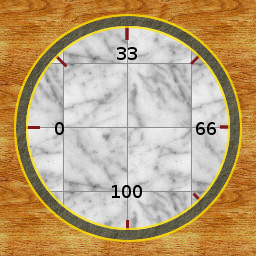
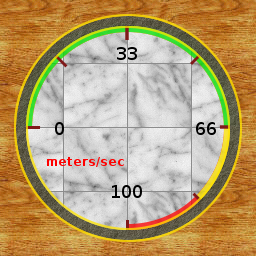
Finished the car's cockpit.

Changed region(s): [[0.0938, 0.0938, 0.9062, 0.9062], [0.1875, 0.5938, 0.5, 0.6562]]

diff --git a/trunk/source/IrrOdeCar/CCar.cpp b/trunk/source/IrrOdeCar/CCar.cpp
@@ -1,9 +1,12 @@
+  #include <irrlicht.h>
   #include "CCar.h"
   #include <CCustomEventReceiver.h>
   #include <CCockpitCar.h>
   #include <math.h>
 
   #include <irrCC.h>
+
+using namespace irr;
 
 void findNodesOfType(ISceneNode *pParent, irr::scene::ESCENE_NODE_TYPE iType, array<ISceneNode *> &aNodes) {
   list<irr::scene::ISceneNode *> children=pParent->getChildren();
@@ -48,6 +51,9 @@ CCar::CCar(IrrlichtDevice *pDevice, ISceneNode *pNode, CIrrCC *pCtrl, CCockpitCa
     m_bBoost=false;
     m_bAdaptSteer=true;
     m_iThrottle=0;
+
+    m_fCamAngleH=0.0f;
+    m_fCamAngleV=0.0f;
 
     //add a camera
     m_pCam=m_pSmgr->addCameraSceneNode();
@@ -133,11 +139,28 @@ u32 CCar::update() {
         //and 45 we calculate the actual steering angle
         m_fActSteer=45.0f-(20.0f)*(v-10.0f)/35.0f;
 
-  bool b=m_pController->get(m_pCtrls[eCarBackview])!=0.0f;
   //get the parameters for the camera ...
   vector3df pos=m_pCarBody->getRotation().rotationToDirection(m_bInternal?vector3df(0,1.35,0):vector3df(8,4,0)),
             up =m_pCarBody->getRotation().rotationToDirection(vector3df(0,0.2,0)),
-            tgt=m_pCarBody->getRotation().rotationToDirection(m_bInternal?vector3df(-5,1.35,0):vector3df(0,2,0));
+            tgt=m_pCarBody->getRotation().rotationToDirection(m_bInternal?vector3df(-5,1.35,0):vector3df(0,2,0)),
+            rot=m_pCarBody->getRotation();
+
+  if (m_bInternal) {
+    core::vector2df lookAt=core::vector2df(0.0f,-5.0f).rotateBy(m_fCamAngleH),
+                    lookUp=core::vector2df(5.0f, 0.0f).rotateBy(m_fCamAngleV);
+
+    pos=rot.rotationToDirection(vector3df(0,1.35,0)),
+    up =rot.rotationToDirection(vector3df(0,1,0));
+    tgt=rot.rotationToDirection(vector3df(lookAt.Y,1.1+lookUp.Y,lookAt.X));
+  }
+  else {
+    core::vector2df lookAt=core::vector2df(  0.0f,15.0f).rotateBy(m_fCamAngleH),
+                    lookUp=core::vector2df(-15.0f, 0.0f).rotateBy(m_fCamAngleV);
+
+    pos=rot.rotationToDirection(vector3df(lookAt.Y,5.0f+lookUp.Y,lookAt.X)),
+    up =rot.rotationToDirection(vector3df(0,1,0));
+    tgt=rot.rotationToDirection(vector3df(0,4,0));
+  }
 
   //... and apply them to the active camera
   m_pCam->setPosition(m_pCarBody->getPosition()+pos);
@@ -166,6 +189,9 @@ bool CCar::OnEvent(const SEvent &event) {
 bool CCar::onEvent(IIrrOdeEvent *pEvent) {
   if (m_bActive && pEvent->getType()==irr::ode::eIrrOdeEventStep) {
     bool bBoost=m_pController->get(m_pCtrls[eCarBoost])!=0.0f;
+
+    if (bBoost!=m_bBoost) m_pCockpit->setBoost(bBoost);
+    m_bBoost=bBoost;
 
     f32 fForeward=m_pController->get(m_pCtrls[eCarForeward]);
 
@@ -216,6 +242,44 @@ bool CCar::onEvent(IIrrOdeEvent *pEvent) {
     m_pTab->setVisible(false);
     m_pCockpit->update(false);
     m_pTab->setVisible(true);
+
+    if (m_pController->get(m_pCtrls[eCarCamRight])!=0.0f) {
+      m_fCamAngleH+=m_pController->get(m_pCtrls[eCarCamRight]);
+
+      if (m_fCamAngleH> 190.0f) m_fCamAngleH= 190.0f;
+      if (m_fCamAngleH<-190.0f) m_fCamAngleH=-190.0f;
+    }
+
+    if (m_pController->get(m_pCtrls[eCarCamUp])!=0.0f) {
+      m_fCamAngleV+=m_pController->get(m_pCtrls[eCarCamUp]);
+
+      if (m_fCamAngleV> 60.0f) m_fCamAngleV= 60.0f;
+      if (m_fCamAngleV<-60.0f) m_fCamAngleV=-60.0f;
+    }
+
+    if (m_pController->get(m_pCtrls[eCarCamCenter])) {
+      if (m_fCamAngleH!=0.0f) {
+        if (m_fCamAngleH>0.0f) {
+          m_fCamAngleH-=5.0f;
+          if (m_fCamAngleH<0.0f) m_fCamAngleH=0.0f;
+        }
+        else {
+          m_fCamAngleH+=5.0f;
+          if (m_fCamAngleH>0.0f) m_fCamAngleH=0.0f;
+        }
+      }
+
+      if (m_fCamAngleV!=0.0f) {
+        if (m_fCamAngleV>0.0f) {
+          m_fCamAngleV-=5.0f;
+          if (m_fCamAngleV<0.0f) m_fCamAngleV=0.0f;
+        }
+        else {
+          m_fCamAngleV+=5.0f;
+          if (m_fCamAngleV>0.0f) m_fCamAngleV=0.0f;
+        }
+      }
+    }
   }
   return false;
 }

diff --git a/trunk/source/IrrOdeCar/irrodecar_main.cpp b/trunk/source/IrrOdeCar/irrodecar_main.cpp
@@ -186,12 +186,18 @@ int main(int argc, char** argv) {
   iCtrls[0][eCarBoost              ]=pController->addItem(0,stringw(L"Boost"                ),KEY_KEY_B ,CIrrCC::eCtrlButton);
   iCtrls[0][eCarToggleAdaptiveSteer]=pController->addItem(0,stringw(L"Toggle adaptive Steer"),KEY_KEY_X ,CIrrCC::eCtrlToggleButton);
   iCtrls[0][eCarFlip               ]=pController->addItem(0,stringw(L"Flip"                 ),KEY_RETURN,CIrrCC::eCtrlToggleButton);
-  iCtrls[0][eCarBackview           ]=pController->addItem(0,stringw(L"Backview"             ),KEY_KEY_R ,CIrrCC::eCtrlButton);
   iCtrls[0][eCarInternal           ]=pController->addItem(0,stringw(L"Internal Camera"      ),KEY_KEY_I ,CIrrCC::eCtrlToggleButton);
+  iCtrls[0][eCarCamLeft            ]=pController->addItem(0,stringw(L"Camera Left"          ),KEY_KEY_Y ,CIrrCC::eCtrlButton);
+  iCtrls[0][eCarCamRight           ]=pController->addItem(0,stringw(L"Camera Right"         ),KEY_KEY_C ,CIrrCC::eCtrlButton);
+  iCtrls[0][eCarCamUp              ]=pController->addItem(0,stringw(L"Camera Up"            ),KEY_KEY_F ,CIrrCC::eCtrlButton);
+  iCtrls[0][eCarCamDown            ]=pController->addItem(0,stringw(L"Camera Down"          ),KEY_KEY_V ,CIrrCC::eCtrlButton);
+  iCtrls[0][eCarCamCenter          ]=pController->addItem(0,stringw(L"Center Camera"        ),KEY_KEY_X ,CIrrCC::eCtrlButton);
 
   //we need two axes for the car: acceleration and steering
   pController->createAxis(iCtrls[0][eCarForeward],iCtrls[0][eCarBackward]);
   pController->createAxis(iCtrls[0][eCarLeft    ],iCtrls[0][eCarRight   ]);
+  pController->createAxis(iCtrls[0][eCarCamLeft ],iCtrls[0][eCarCamRight]);
+  pController->createAxis(iCtrls[0][eCarCamDown ],iCtrls[0][eCarCamUp   ]);
 
   //next up: the tank
   iCtrls[1][eTankForeward     ]=pController->addItem(1,stringw(L"Foreward"         ),KEY_UP    ,CIrrCC::eCtrlAxis);

diff --git a/trunk/source/IrrOdeCar/CCockpitCar.cpp b/trunk/source/IrrOdeCar/CCockpitCar.cpp
@@ -4,14 +4,19 @@
 
 using namespace irr;
 
-CCockpitCar::CCockpitCar(IrrlichtDevice *pDevice, const char *sName) : IRenderToTexture(pDevice,sName,core::dimension2d<u32>(256,256)) {
-  m_pTab=m_pGuienv->addTab(core::rect<s32>(0,0,300,300));
-  m_pMeter=new gui::CGUINeedleIndicator(m_pGuienv,m_pTab,-1,core::rect<s32>(0,0,255,255));
+CCockpitCar::CCockpitCar(IrrlichtDevice *pDevice, const char *sName) : IRenderToTexture(pDevice,sName,core::dimension2d<u32>(512,512)) {
+  m_pTab=m_pGuienv->addTab(core::rect<s32>(0,0,512,512));
+
+  m_pGuienv->addStaticText(L"The Car",core::rect<s32>(5,5,105,25),false,true,m_pTab);
+
+  m_pMeter=new gui::CGUINeedleIndicator(m_pGuienv,m_pTab,-1,core::rect<s32>(core::position2di(128,128),core::dimension2di(256,256)));
   m_pMeter->setBackground(m_pDrv->getTexture("../../data/car/speed_meter.png"));
   m_pMeter->addNeedle(video::SColor(0xFF,0,0,0),0.7f,0.02f,1.0f);
   m_pMeter->setRange(0.0f,100.0f);
   m_pMeter->setAngleRange(0.0f,270.0f);
   m_pMeter->setAngleOffset(90.0f);
+  m_pBoostRed =m_pGuienv->addImage(m_pDrv->getTexture("../../data/car/boost_red.png" ),core::position2di(164,328),true,m_pTab);
+  m_pBoostGray=m_pGuienv->addImage(m_pDrv->getTexture("../../data/car/boost_gray.png"),core::position2di(164,328),true,m_pTab);
   m_pTab->setVisible(false);
 
   u32 iReplace=processTextureReplace(m_pSmgr->getRootSceneNode());
@@ -29,4 +34,9 @@ void CCockpitCar::update(bool b) {
   m_pGuienv->drawAll();
   m_pTab->setVisible(false);
   endRttUpdate();
+}
+
+void CCockpitCar::setBoost(bool b) {
+  m_pBoostGray->setVisible(!b);
+  m_pBoostRed ->setVisible( b);
 }

diff --git a/trunk/include/IrrOdeCar/CCar.h b/trunk/include/IrrOdeCar/CCar.h
@@ -20,8 +20,12 @@ enum eCarCtrl {
   eCarBoost,
   eCarFlip,
   eCarToggleAdaptiveSteer,
-  eCarBackview,
-  eCarInternal
+  eCarInternal,
+  eCarCamLeft,
+  eCarCamRight,
+  eCarCamUp,
+  eCarCamDown,
+  eCarCamCenter
 };
 
 class CCar : public CIrrOdeCarState, public IEventReceiver, public IIrrOdeEventListener {
@@ -31,7 +35,9 @@ class CCar : public CIrrOdeCarState, public IEventReceiver, public IIrrOdeEventL
          m_bAdaptSteer, /*!< is the adaptive steer mode active? */
          m_bHelp,       /*!< is the help screen visible? */
          m_bInternal;   /*!< internal view active? */
-    f32 m_fActSteer;    /*!< the actual steering (-45.0, 0, +45.0) */
+    f32 m_fActSteer,    /*!< the actual steering (-45.0, 0, +45.0) */
+        m_fCamAngleH,   /*!< horizontal angle of camera */
+        m_fCamAngleV;   /*!< vertical angle of camera */
     s32 m_iThrottle;    /*!< position of the throttle */
 
     IGUIStaticText *m_pInfo;    /*!< the info text (with speed...) */

diff --git a/trunk/source/IrrOdeCar/CGUINeedleIndicator.cpp b/trunk/source/IrrOdeCar/CGUINeedleIndicator.cpp
@@ -66,7 +66,8 @@ namespace irr {
         m_pDrv->draw2DRectangle(AbsoluteRect,cCol,cCol,cCol,cCol);
       }
       else {
-        m_pDrv->draw2DImage(m_pTexture,AbsoluteRect,core::rect<s32>(0,0,m_pTexture->getOriginalSize().Width-1,m_pTexture->getOriginalSize().Height-1));
+        core::dimension2di cDim=core::dimension2di(m_pTexture->getOriginalSize().Width,m_pTexture->getOriginalSize().Height);
+        m_pDrv->draw2DImage(m_pTexture,AbsoluteRect,core::rect<s32>(core::position2di(0,0),cDim));
       }
 
       core::list<CNeedle *>::Iterator it;

diff --git a/trunk/include/IrrOdeCar/CCockpitCar.h b/trunk/include/IrrOdeCar/CCockpitCar.h
@@ -18,6 +18,8 @@ class CCockpitCar : public IRenderToTexture {
 
     gui::CGUINeedleIndicator *m_pMeter;
     gui::IGUITab *m_pTab;
+    gui::IGUIImage *m_pBoostRed,
+                   *m_pBoostGray;
 
   public:
     CCockpitCar(IrrlichtDevice *pDevice, const char *sName);
@@ -26,6 +28,8 @@ class CCockpitCar : public IRenderToTexture {
     virtual void update(bool b);
 
     void setSpeed(f32 fSpeed) { m_fSpeed=fSpeed; }
+
+    void setBoost(bool b);
 };
 
 #endif
